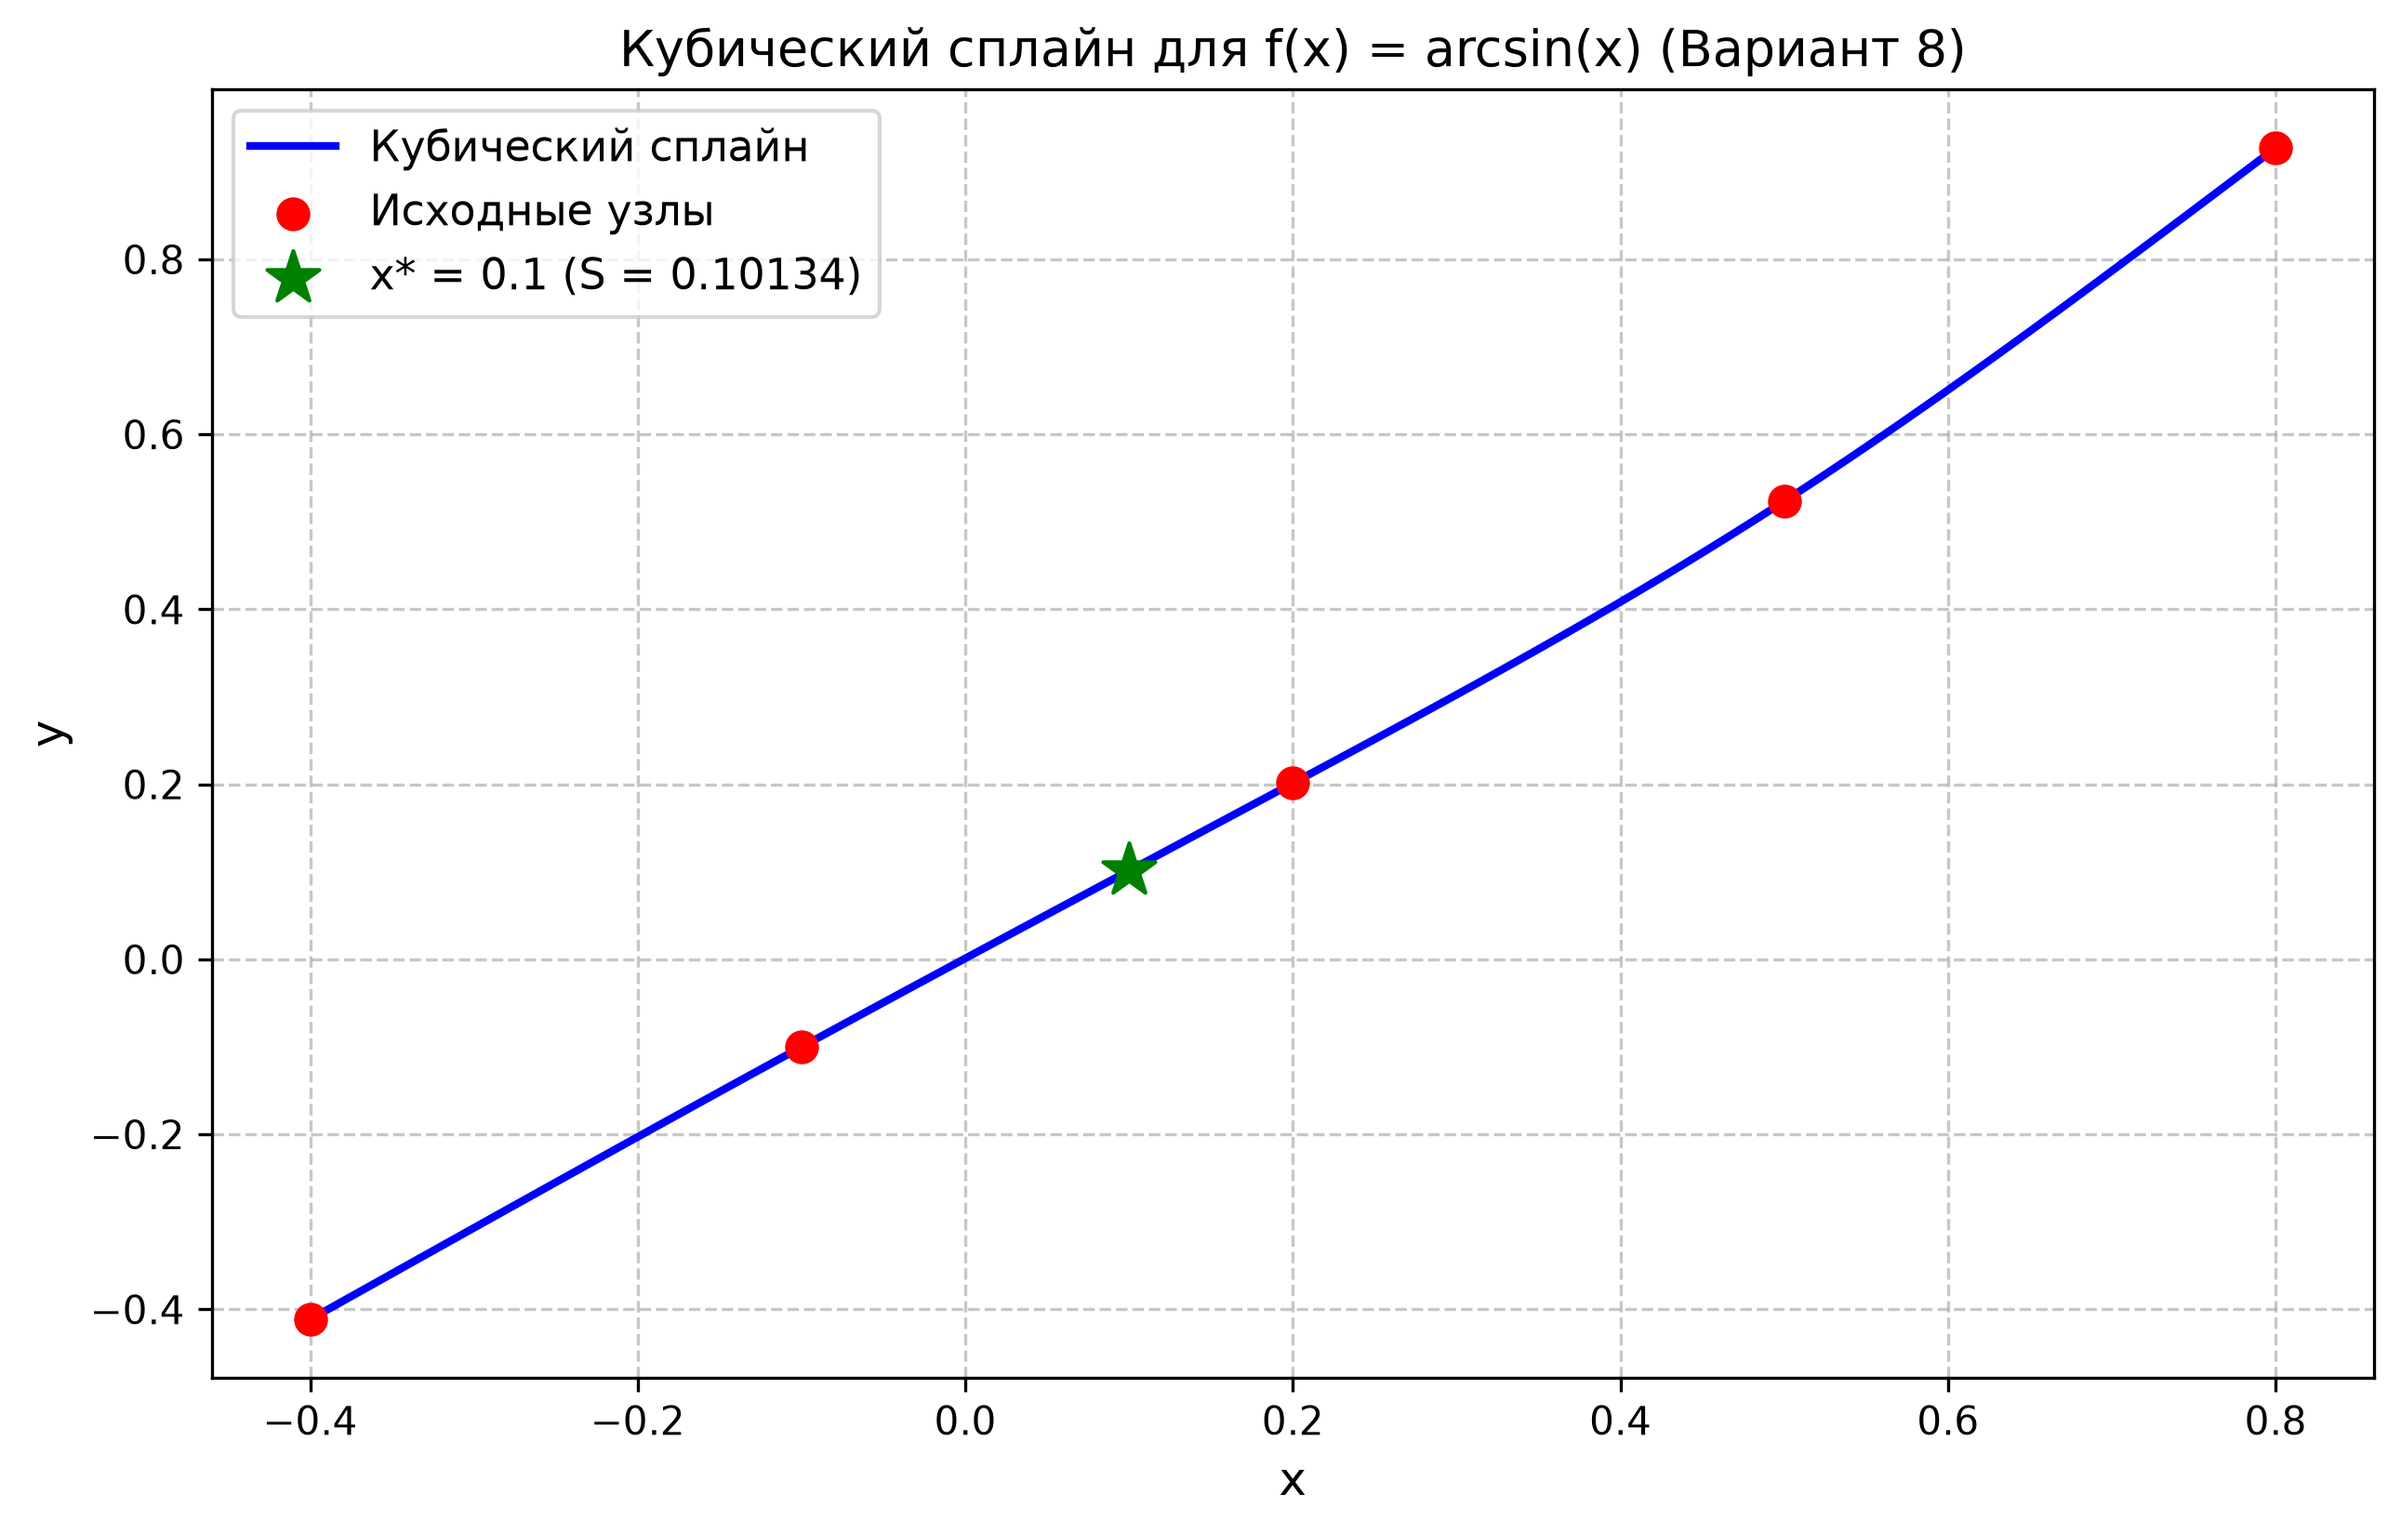
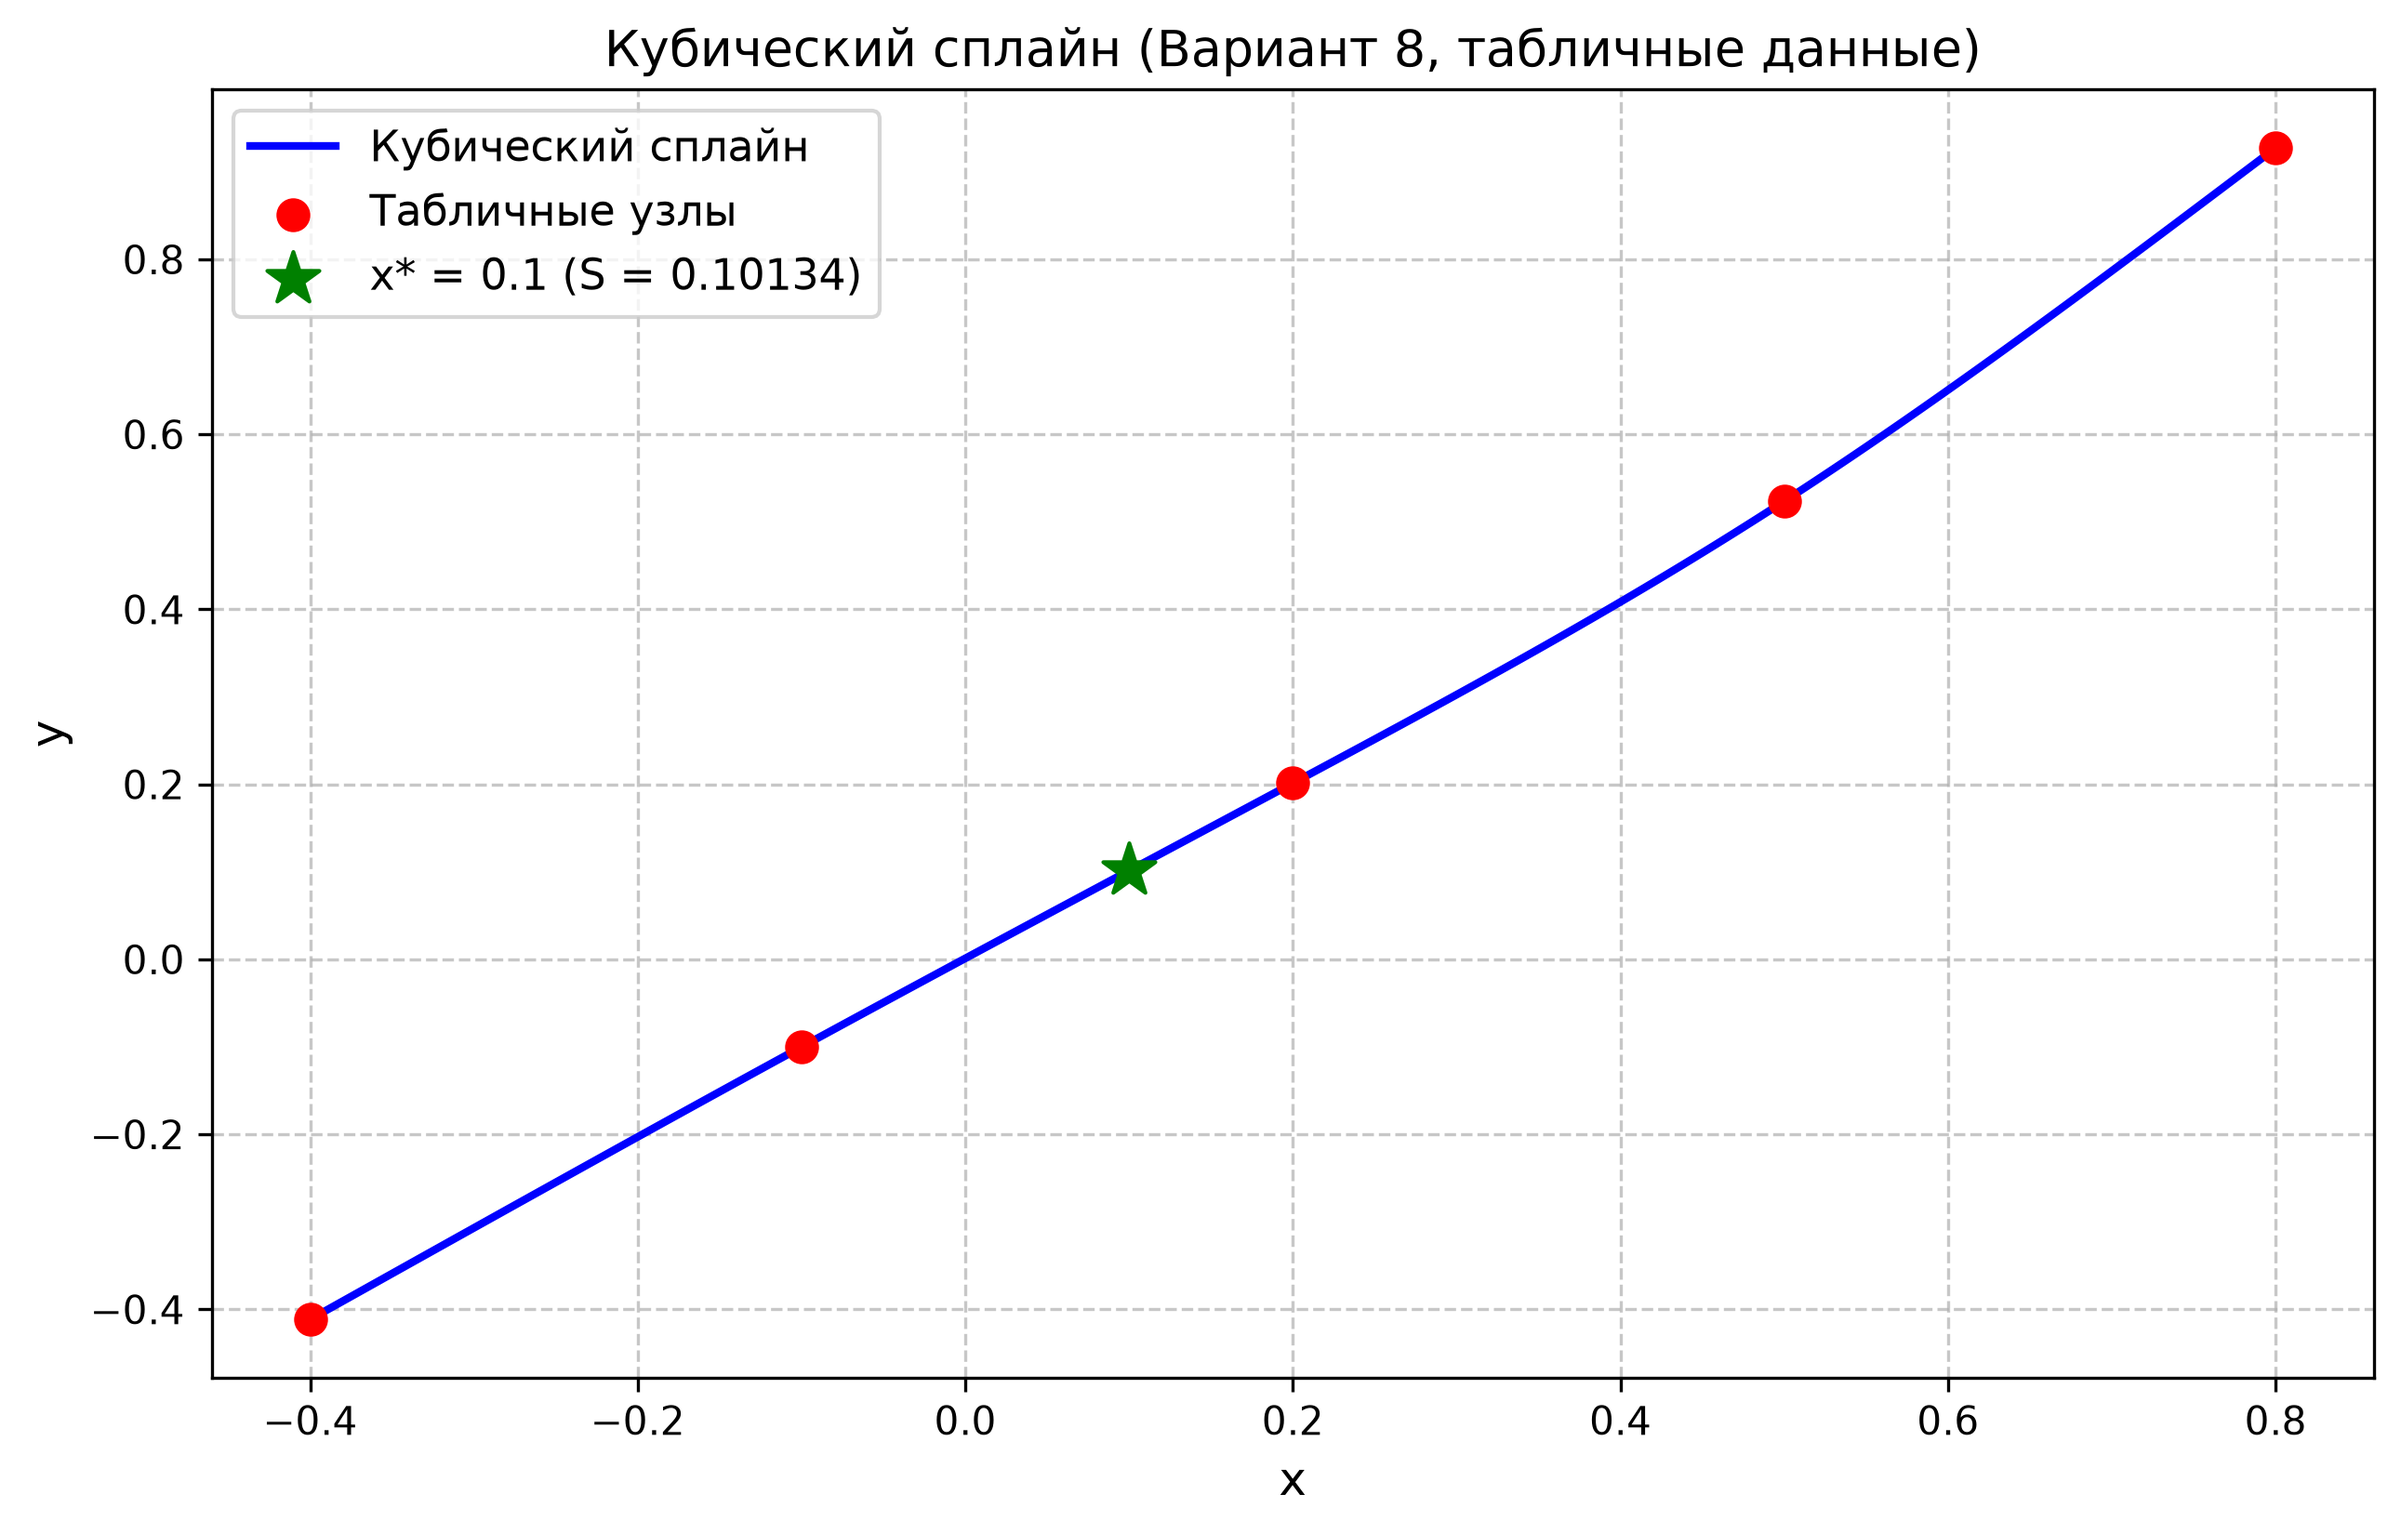
3.2fix

Changed region(s): [[0.2479, 0.0, 0.8366, 0.0618], [0.1549, 0.1236, 0.3098, 0.1545]]

diff --git a/lab3/3.2/main.py b/lab3/3.2/main.py
@@ -1,6 +1,5 @@
 import math
 import os
-
 import matplotlib
 matplotlib.use("Agg")
 import matplotlib.pyplot as plt
@@ -9,34 +8,34 @@ from methods import build_cubic_spline, evaluate_spline
 
 def main():
     x_nodes = [-0.4, -0.1, 0.2, 0.5, 0.8]
-    y_nodes = [math.asin(x) for x in x_nodes]
+    y_nodes = [-0.41152, -0.10017, 0.20136, 0.52360, 0.92730]
     x_star = 0.1
+    
     exact_val = math.asin(x_star)
 
     a, b, c, d = build_cubic_spline(x_nodes, y_nodes)
 
-    print("ЗАДАЧА 3.2: КУБИЧЕСКИЙ СПЛАЙН")
+    print("ЗАДАЧА 3.2: КУБИЧЕСКИЙ СПЛАЙН (ВАРИАНТ 8)")
+    print("=" * 60)
 
-    print("\n1. Исходные узлы и значения функции:")
+    print("\n1. Исходные узлы и табличные значения функции:")
     print(f"   {'i':<3} | {'x_i':<8} | {'f(x_i)':<10}")
     print("   " + "-" * 26)
     for i in range(len(x_nodes)):
-        print(f"   {i:<3} | {x_nodes[i]:<8.2f} | {y_nodes[i]:<10.6f}")
+        print(f"   {i:<3} | {x_nodes[i]:<8.2f} | {y_nodes[i]:<10.5f}")
 
     print("\n2. Коэффициенты сплайна S_i(x) = a_i + b_i(x - x_{i-1}) + c_i(x - x_{i-1})^2 + d_i(x - x_{i-1})^3:")
     print(f"   {'Интервал':<12} | {'a_i':<10} | {'b_i':<10} | {'c_i':<10} | {'d_i':<10}")
     print("   " + "-" * 62)
-    for i in range(1, len(x_nodes)):
-        print(f"   [{x_nodes[i-1]:4.1f}, {x_nodes[i]:4.1f}] | {a[i]:>10.6f} | {b[i]:>10.6f} | {c[i]:>10.6f} | {d[i]:>10.6f}")
+    for i in range(len(a)):
+        print(f"   [{x_nodes[i]:4.1f}, {x_nodes[i+1]:4.1f}] | {a[i]:>10.5f} | {b[i]:>10.5f} | {c[i]:>10.5f} | {d[i]:>10.5f}")
 
-    S_star, interval_star = evaluate_spline(x_star, x_nodes, a, b, c, d)
-    abs_error = abs(exact_val - S_star)
+    S_star, interval_idx = evaluate_spline(x_star, x_nodes, a, b, c, d)
 
     print(f"\n3. Результаты вычислений в точке x* = {x_star}:")
     print(f"   • Значение сплайна S(x*):         {S_star:.6f}")
-    print(f"   • Точное значение f(x*):          {exact_val:.6f}")
-    print(f"   • Абсолютная погрешность:         {abs_error:.6e}")
-    print(f"   • Номер интервала:                {interval_star} (отрезок [{x_nodes[interval_star-1]}; {x_nodes[interval_star]}])")
+    print(f"   • Номер интервала (с 0):          {interval_idx} (отрезок [{x_nodes[interval_idx]}; {x_nodes[interval_idx+1]}])")
+    
 
     print("\n4. Проверка прохождения сплайна через исходные узлы:")
     max_node_error = 0.0
@@ -44,10 +43,10 @@ def main():
         val, _ = evaluate_spline(x_nodes[i], x_nodes, a, b, c, d)
         err = abs(val - y_nodes[i])
         max_node_error = max(max_node_error, err)
-        print(f"   S({x_nodes[i]:5.2f}) = {val:.6f} | f({x_nodes[i]:5.2f}) = {y_nodes[i]:.6f} | Разница: {err:.2e}")
+        print(f"   S({x_nodes[i]:5.2f}) = {val:.5f} | f({x_nodes[i]:5.2f}) = {y_nodes[i]:.5f} | Разница: {err:.2e}")
 
-    print("\n5. Значения второй производной на концах интервала (проверка нулевой кривизны):")
-    S_double_left = 2 * c[1]
+    print("\n5. Проверка нулевой кривизны на концах (граничные условия):")
+    S_double_left = 2 * c[0]
     dx_right = x_nodes[-1] - x_nodes[-2]
     S_double_right = 2 * c[-1] + 6 * d[-1] * dx_right
     
@@ -56,26 +55,25 @@ def main():
 
     fig, ax = plt.subplots(figsize=(10, 6))
 
-    for i in range(1, len(x_nodes)):
+    for i in range(len(a)):
         x_interval = []
         y_interval = []
         num_pts = 50
-        step = (x_nodes[i] - x_nodes[i-1]) / (num_pts - 1)
+        step = (x_nodes[i+1] - x_nodes[i]) / (num_pts - 1)
         for k in range(num_pts):
-            xx = x_nodes[i-1] + k * step
+            xx = x_nodes[i] + k * step
             x_interval.append(xx)
             y_val, _ = evaluate_spline(xx, x_nodes, a, b, c, d)
             y_interval.append(y_val)
         
-        label = "Кубический сплайн" if i == 1 else ""
+        label = "Кубический сплайн" if i == 0 else ""
         ax.plot(x_interval, y_interval, 'b-', linewidth=2, label=label)
 
-    ax.scatter(x_nodes, y_nodes, color='red', s=60, zorder=5, label='Исходные узлы')
-
+    ax.scatter(x_nodes, y_nodes, color='red', s=60, zorder=5, label='Табличные узлы')
     ax.scatter([x_star], [S_star], color='green', marker='*', s=200, zorder=6, 
                label=f'x* = {x_star} (S = {S_star:.5f})')
 
-    ax.set_title('Кубический сплайн для f(x) = arcsin(x) (Вариант 8)', fontsize=13)
+    ax.set_title('Кубический сплайн (Вариант 8, табличные данные)', fontsize=13)
     ax.set_xlabel('x', fontsize=12)
     ax.set_ylabel('y', fontsize=12)
     ax.grid(True, linestyle='--', alpha=0.7)

diff --git a/lab3/3.2/methods.py b/lab3/3.2/methods.py
@@ -20,10 +20,10 @@ def solve_tridiagonal(a, b, c, d):
 
 
 def build_cubic_spline(x_nodes, y_nodes):
-    n = len(x_nodes) - 1 
-    h = [x_nodes[i] - x_nodes[i - 1] for i in range(1, n + 1)]
+    n = len(x_nodes) - 1  
+    h = [x_nodes[i+1] - x_nodes[i] for i in range(n)] 
 
-    c = [0.0] * (n + 2)
+    c = [0.0] * (n + 1)
     
     size = n - 1  
     
@@ -52,40 +52,36 @@ def build_cubic_spline(x_nodes, y_nodes):
         
         c_mid = solve_tridiagonal(A, B, C, D)
         for k in range(size):
-            c[k + 2] = c_mid[k]  
+            c[k + 1] = c_mid[k]  
     
-    a = [0.0] * (n + 1)
-    b = [0.0] * (n + 1)
-    d = [0.0] * (n + 1)
+    a = [0.0] * n
+    b = [0.0] * n
+    d = [0.0] * n
     
-    for i in range(1, n + 1):
-        a[i] = y_nodes[i - 1]
-        
-    for i in range(1, n):
-        b[i] = (y_nodes[i] - y_nodes[i - 1]) / h[i - 1] - (1.0 / 3.0) * h[i - 1] * (c[i + 1] + 2 * c[i])
-        d[i] = (c[i + 1] - c[i]) / (3.0 * h[i - 1])
-        
-    b[n] = (y_nodes[n] - y_nodes[n - 1]) / h[n - 1] - (2.0 / 3.0) * h[n - 1] * c[n]
-    d[n] = -c[n] / (3.0 * h[n - 1])
-    
-    return a, b, c[:n+1], d
+    for i in range(n):
+        a[i] = y_nodes[i]
+        b[i] = (y_nodes[i+1] - y_nodes[i]) / h[i] - (h[i] / 3.0) * (2.0 * c[i] + c[i+1])
+        d[i] = (c[i+1] - c[i]) / (3.0 * h[i])
+
+    return a, b, c, d
 
 
 def evaluate_spline(x, x_nodes, a, b, c, d):
     n = len(x_nodes) - 1
     
-    interval = 1
-    for i in range(1, n + 1):
-        if x_nodes[i - 1] <= x <= x_nodes[i]:
-            interval = i
+    interval_idx = 0
+    for i in range(n):
+        if x_nodes[i] <= x <= x_nodes[i+1]:
+            interval_idx = i
             break
             
     if x < x_nodes[0]:
-        interval = 1
+        interval_idx = 0
     if x > x_nodes[-1]:
-        interval = n
+        interval_idx = n - 1
 
-    dx = x - x_nodes[interval - 1]
-    S_x = a[interval] + b[interval] * dx + c[interval] * (dx ** 2) + d[interval] * (dx ** 3)
+    dx = x - x_nodes[interval_idx]
     
-    return S_x, interval
+    S_x = a[interval_idx] + b[interval_idx] * dx + c[interval_idx] * (dx ** 2) + d[interval_idx] * (dx ** 3)
+    
+    return S_x, interval_idx
